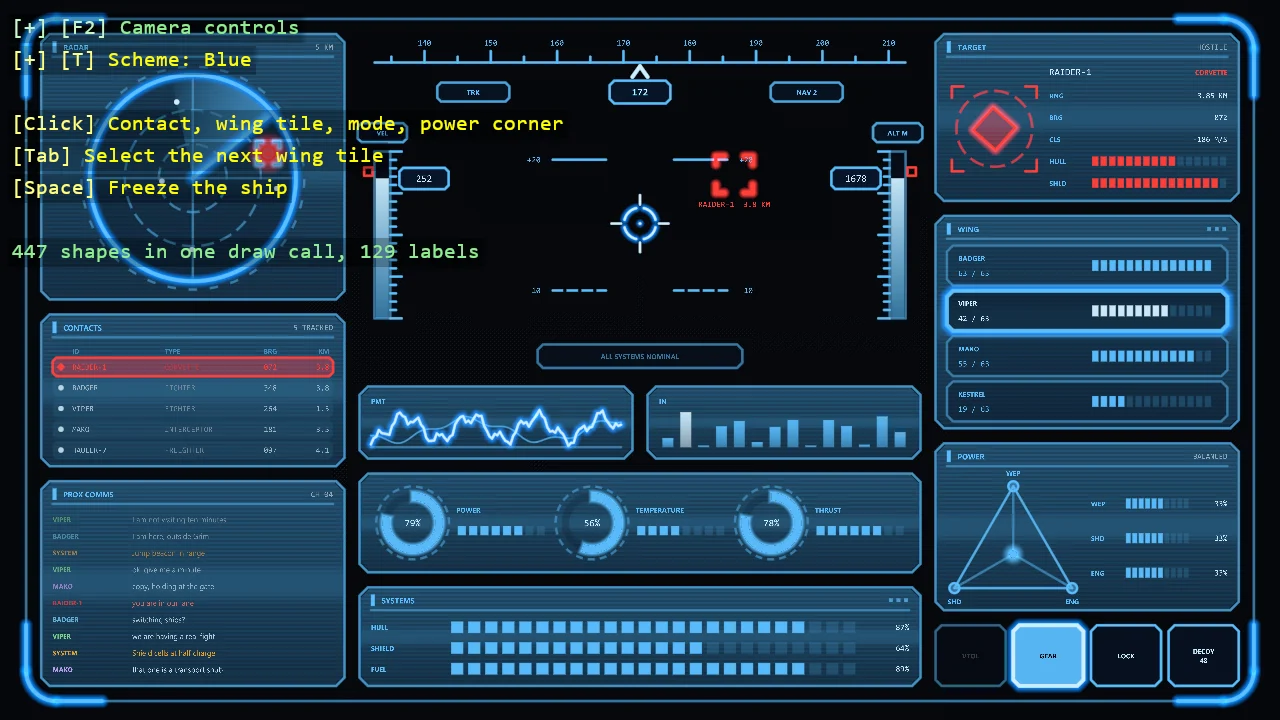
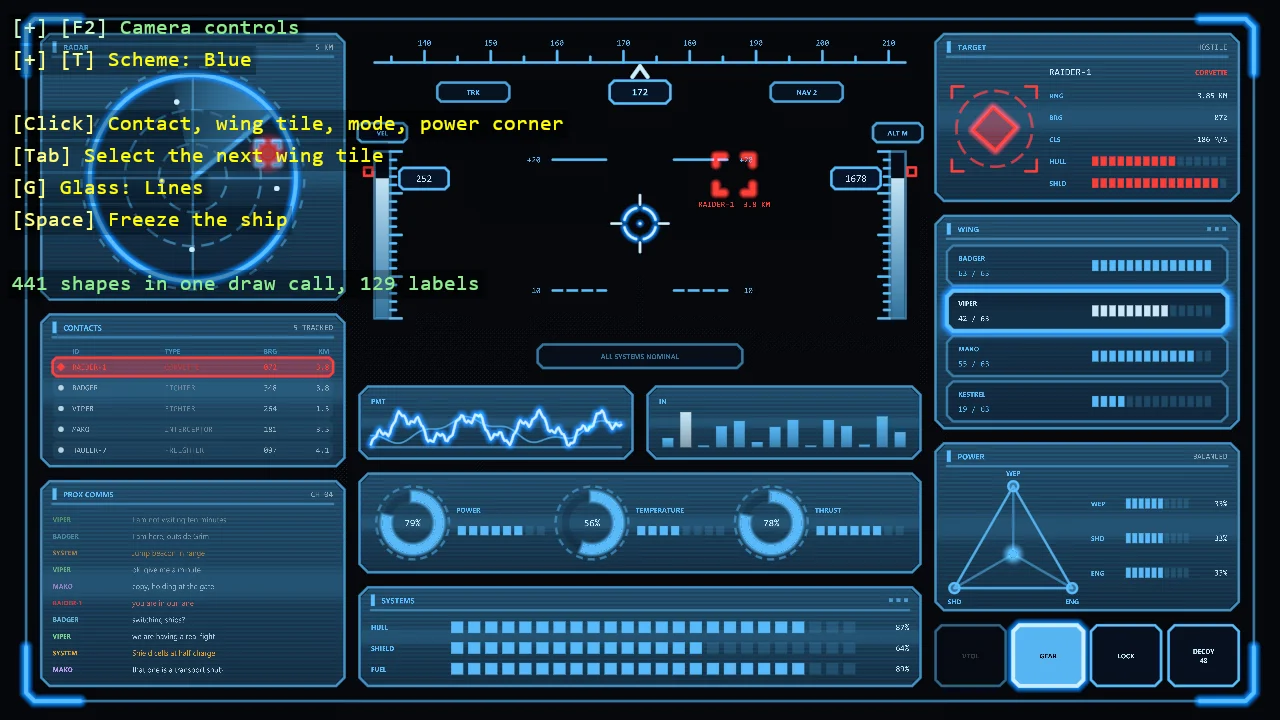
feat(examples): add configurable ship HUD glass
- Add a second glass pattern driven from C# and G
- Support line and square glass patterns through shader Settings
- Switch the frame to cut corners and tune trace/radar visuals
- Update the example docs and release notes

diff --git a/examples/code-only/E03_2D_HUD/Program.cs b/examples/code-only/E03_2D_HUD/Program.cs
@@ -22,9 +22,11 @@ using Stride.Rendering.Materials.ComputeColors;
 //   *Widget.cs      one widget each
 //
 // T opens the colour schemes and 1 to 9 and 0 pick one. Click a contact, a wing tile, a mode button
-// or a corner of the power triangle. TAB selects the next wing tile and SPACE freezes the ship.
+// or a corner of the power triangle. TAB selects the next wing tile, G changes the panels' glass
+// and SPACE freezes the ship.
 //
-// "--scheme 0" starts in a scheme by its key. "--pointer 0.5,0.5" holds the pointer at a position,
+// "--scheme 0" starts in a scheme by its key and "--glass squares" in a glass pattern.
+// "--pointer 0.5,0.5" holds the pointer at a position,
 // from 0,0 top left to 1,1 bottom right, and clicks there once: what a screenshot needs to show a
 // hover.
 
@@ -32,11 +34,12 @@ const float ViewHeight = 19f;
 
 var ship = new ShipState();
 var hud = new Hud(ship);
-var clock = new ComputeFloat4();
+var glassSettings = new ComputeFloat4();
 var paused = false;
 var time = 0f;
 var shapeCount = 0;
 var themeIndex = SchemeFromArguments(args);
+var glassPattern = GlassFromArguments(args);
 var heldPointer = PointerFromArguments(args);
 var heldPointerClicked = false;
 
@@ -63,7 +66,7 @@ void Start(Scene scene)
 
     // One batch for everything. Its fill source is the panels' glass, a shader class of the
     // example's own, which only the shapes drawn as textured sample.
-    var glass = new ComputeShaderClassColor { MixinReference = "HudGlass", CompositionNodes = { ["Clock"] = clock } };
+    var glass = new ComputeShaderClassColor { MixinReference = "HudGlass", CompositionNodes = { ["Settings"] = glassSettings } };
     var shapes = game.AddShapeBatch(fill: glass);
 
     canvas = new HudCanvas(game, scene, shapes, HudTheme.All[themeIndex]);
@@ -94,6 +97,7 @@ void Update(Scene scene, GameTime gameTime)
 
     if (game.Input.IsKeyPressed(Keys.Space)) paused = !paused;
     if (game.Input.IsKeyPressed(Keys.Tab)) ship.SelectedWing = (ship.SelectedWing + 1) % ship.Wing.Length;
+    if (game.Input.IsKeyPressed(Keys.G)) glassPattern = glassPattern == GlassPattern.Lines ? GlassPattern.Squares : GlassPattern.Lines;
 
     if (!paused)
     {
@@ -104,7 +108,9 @@ void Update(Scene scene, GameTime gameTime)
     // The power setting follows the pointer, so it moves while the ship is frozen too
     ship.Power.Advance(elapsed);
 
-    clock.Value = new Vector4(time, 0f, 0f, 0f);
+    // What the glass shader reads: x is the clock, y the pattern
+    glassSettings.Value = new Vector4(time, (float)glassPattern, 0f, 0f);
+    canvas.Glass = glassPattern;
 
     var pointer = heldPointer ?? game.Input.MousePosition;
     var clicked = heldPointer is null ? game.Input.IsMouseButtonPressed(MouseButton.Left) : !heldPointerClicked && canvas.Shapes.CanPick;
@@ -133,6 +139,7 @@ IReadOnlyList<TextElement> OverlayLines()
     [
         new("Click", "Contact, wing tile, mode, power corner", Color.Yellow),
         new("Tab", "Select the next wing tile", Color.Yellow),
+        new("G", $"Glass: {glassPattern}", Color.Yellow),
         new("Space", paused ? "Resume" : "Freeze the ship", Color.Yellow),
         new(string.Empty),
         new($"{shapeCount} shapes in one draw call, {canvas?.LabelCount ?? 0} labels", Color.LightGreen),
@@ -151,6 +158,13 @@ static int SchemeFromArguments(string[] args)
     if (at < 0 || at + 1 >= args.Length || !int.TryParse(args[at + 1], out var key) || key is < 0 or > 9) return 0;
 
     return key == 0 ? 9 : key - 1;
+}
+
+static GlassPattern GlassFromArguments(string[] args)
+{
+    var at = Array.IndexOf(args, "--glass");
+
+    return at >= 0 && at + 1 < args.Length && Enum.TryParse<GlassPattern>(args[at + 1], ignoreCase: true, out var pattern) ? pattern : GlassPattern.Lines;
 }
 
 static Vector2? PointerFromArguments(string[] args)
@@ -181,22 +195,22 @@ order: 76
 description:
   en: |-
     A cockpit HUD composed from the toolkit's shapes and world text, with one widget per file. A
-    rounded frame holds three columns of panels: a radar, a contacts table and a comms log on the
+    frame with cut corners holds three columns of panels: a radar, a contacts table and a comms log on the
     left, the heading tape, the sight with its pitch ladder, the speed and altitude tapes, two
     traces, a spectrum, ring gauges and the systems bars in the middle, and the target, the wing,
     the power triangle and the mode buttons on the right. Panels are interactive: click a contact
     to target it, a wing tile to select it, a mode button to switch it, a corner of the triangle to
-    move power there. The panels' glass is a shader fill. Ten colour schemes switch live, nine in
-    one colour and one that colours by function. Every shape is in one draw call and the ship flies
+    move power there. The panels' glass is a shader fill with two patterns, lines and squares. Ten
+    colour schemes switch live, nine in one colour and one that colours by function. Every shape is in one draw call and the ship flies
     itself.
   cs: |-
-    HUD kokpitu složený z tvarů a textu ve světě, jeden widget v jednom souboru. Zaoblený rám drží
+    HUD kokpitu složený z tvarů a textu ve světě, jeden widget v jednom souboru. Rám se zkosenými rohy drží
     tři sloupce panelů: vlevo radar, tabulku kontaktů a komunikační log, uprostřed pásku kurzu,
     zaměřovač se žebříkem sklonu, pásky rychlosti a výšky, dvě křivky signálu, spektrum, kruhové
     ukazatele a pruhy systémů, vpravo cíl, letku, trojúhelník rozdělení energie a tlačítka režimů.
     Panely jsou interaktivní: kliknutím na kontakt se z něj stane cíl, kliknutím na dlaždici letky
     se vybere, tlačítko režimu se přepne a roh trojúhelníku přesune energii. Sklo panelů je výplň
-    shaderem. Deset barevných schémat lze přepínat za běhu, devět jednobarevných a jedno, které
+    shaderem se dvěma vzory, linkami a čtverci. Deset barevných schémat lze přepínat za běhu, devět jednobarevných a jedno, které
     barví podle funkce. Všechny tvary jsou v jednom volání a loď letí sama.
 concepts:
   - Splitting a HUD into one widget per file, each drawing inside the rectangle it is given
@@ -205,6 +219,7 @@ concepts:
   - Hover and click through ShapeBatch picking - tag a shape, ask the batch what is under the pointer
   - Invisible tagged discs as hit areas for small things
   - A shader class as the batch's fill source, sampled only by the shapes drawn as textured
+  - One shader with two patterns, chosen by a value composed in from C#
   - A theme that answers roles, so one scheme can colour by function
   - Values that ease towards their target for hover, selection and a fade-in on a scheme change
   - A trace sampled as a function of time, so it scrolls every frame

diff --git a/examples/code-only/E03_2D_HUD/TraceWidget.cs b/examples/code-only/E03_2D_HUD/TraceWidget.cs
@@ -3,14 +3,19 @@ using Stride.Core.Mathematics;
 namespace E03_2D_HUD;
 
 /// <summary>
-/// The last few seconds of two signals, each one stroke. Every point is the signal at the moment
-/// its x stands for, so the trace scrolls a little every frame and never steps.
+/// The last few seconds of two signals, each one stroke. The samples are taken at fixed moments of
+/// the signal, not at fixed places on the screen, so the stroke keeps its shape and only slides:
+/// it scrolls a little every frame, never steps and never shimmers at its peaks.
 /// </summary>
 public sealed class TraceWidget : HudWidget
 {
     private const string Name = "trace";
-    private const int Points = 96;
     private const float SecondsShown = 6f;
+    private const float SecondsPerSample = 1f / 24f;
+    private const float Margin = 0.001f;
+
+    // The samples inside the window, and one point on each edge
+    private const int MaxPoints = (int)(SecondsShown / SecondsPerSample) + 3;
 
     public override void Draw(HudCanvas canvas, HudRect bounds)
     {
@@ -24,28 +29,46 @@ public sealed class TraceWidget : HudWidget
         canvas.Style(HudCanvas.Thin, 0f);
         canvas.Line(new Vector2(plot.Left, plot.Bottom), new Vector2(plot.Right, plot.Bottom), HudCanvas.Thin, theme.Dim(HudRole.Frame));
 
-        Span<Vector2> points = stackalloc Vector2[Points];
+        Span<Vector2> points = stackalloc Vector2[MaxPoints];
 
         // The slower signal behind: thinner and dimmer
-        Sample(points, plot, canvas.Time, ShipState.Reference);
+        var count = Sample(points, plot, canvas.Time, ShipState.Reference);
 
         canvas.Style(1f, 0f);
-        canvas.Shapes.DrawPixelPolyline(points, 1f, theme.For(HudRole.Commanded).WithAlpha(0.6f));
+        canvas.Shapes.DrawPixelPolyline(points[..count], 1f, theme.For(HudRole.Commanded).WithAlpha(0.6f));
 
         // The signal in front, glowing like a phosphor trace
-        Sample(points, plot, canvas.Time, ShipState.Signal);
+        count = Sample(points, plot, canvas.Time, ShipState.Signal);
 
         canvas.Style(HudCanvas.Thin, 0f, glow: 4f, glowColour: theme.Glow, additive: true);
-        canvas.Shapes.DrawPixelPolyline(points, HudCanvas.Thin, theme.Text);
+        canvas.Shapes.DrawPixelPolyline(points[..count], HudCanvas.Thin, theme.Text);
     }
 
-    private static void Sample(Span<Vector2> points, HudRect plot, float now, Func<float, float> signal)
+    /// <summary>
+    /// Fills the points of a stroke: one on the left edge, one for every sample moment inside the
+    /// window, one on the right edge.
+    /// </summary>
+    /// <returns>How many points it filled.</returns>
+    private static int Sample(Span<Vector2> points, HudRect plot, float now, Func<float, float> signal)
     {
-        for (var i = 0; i < points.Length; i++)
-        {
-            var along = i / (points.Length - 1f);
+        var start = now - SecondsShown;
+        var count = 0;
 
-            points[i] = plot.At(along, signal(now - (1f - along) * SecondsShown));
+        points[count++] = plot.At(0f, signal(start));
+
+        // Sample moments are multiples of the step, so the same moments are sampled every frame
+        for (var sample = (int)MathF.Floor(start / SecondsPerSample) + 1; sample * SecondsPerSample < now && count < points.Length - 1; sample++)
+        {
+            var moment = sample * SecondsPerSample;
+
+            // A sample on an edge would double the edge's own point
+            if (moment - start < Margin || now - moment < Margin) continue;
+
+            points[count++] = plot.At((moment - start) / SecondsShown, signal(moment));
         }
+
+        points[count++] = plot.At(1f, signal(now));
+
+        return count;
     }
 }

diff --git a/examples/code-only/E03_2D_HUD/Hud.cs b/examples/code-only/E03_2D_HUD/Hud.cs
@@ -3,7 +3,7 @@ using Stride.Core.Mathematics;
 namespace E03_2D_HUD;
 
 /// <summary>
-/// The layout: a rounded frame and three columns of widgets inside it, stacked top down. One
+/// The layout: a frame with cut corners and three columns of widgets inside it, stacked top down. One
 /// padding separates the frame from the columns, the columns from each other and the widgets in a
 /// column. A widget draws inside the rectangle it is given, so moving one is moving a line here.
 /// </summary>
@@ -13,7 +13,8 @@ public sealed class Hud
     public const float Height = 18f;
     public const float Padding = 0.4f;
 
-    private const float Corner = 0.8f;
+    // The frame's corners are cut as much as a panel's
+    private const float Cut = HudPanel.Cut;
     private const float SideColumn = 8f;
     private const float Tape = 2.6f;
 
@@ -58,8 +59,8 @@ public sealed class Hud
     }
 
     /// <summary>
-    /// The edge of the canopy glass: a rounded outline, with each corner drawn again brighter as an
-    /// arc and two short arms.
+    /// The edge of the canopy glass: an outline with its corners cut at 45 degrees, like the
+    /// panels, and each corner drawn again brighter as one stroke with two short arms.
     /// </summary>
     private static void DrawFrame(HudCanvas canvas, HudRect frame)
     {
@@ -67,24 +68,33 @@ public sealed class Hud
 
         var theme = canvas.Theme;
         var accent = theme.For(HudRole.Frame);
+        var half = frame.Size / 2f;
+
+        ReadOnlySpan<Vector2> outline =
+        [
+            new(-half.X + Cut, -half.Y), new(half.X - Cut, -half.Y), new(half.X, -half.Y + Cut), new(half.X, half.Y - Cut),
+            new(half.X - Cut, half.Y), new(-half.X + Cut, half.Y), new(-half.X, half.Y - Cut), new(-half.X, -half.Y + Cut),
+        ];
 
         canvas.Style(HudCanvas.Thin, 0f);
-        canvas.Shapes.DrawRectangle(new Vector3(frame.Center, 0f), Vector3.UnitX, Vector3.UnitY, frame.Size, theme.Dim(HudRole.Frame), Corner);
+        canvas.Shapes.DrawPixelPolyline(outline, new Vector3(frame.Center, 0f), Vector3.UnitX, Vector3.UnitY, HudCanvas.Thin, theme.Dim(HudRole.Frame), closed: true);
 
         canvas.Style(HudCanvas.Thick, 0f, glow: 4f, glowColour: theme.Glow, additive: true);
 
-        // Counter-clockwise from the top right, a quarter turn each
-        ReadOnlySpan<Vector2> sides = [new(1f, 1f), new(-1f, 1f), new(-1f, -1f), new(1f, -1f)];
-
-        for (var i = 0; i < sides.Length; i++)
+        foreach (var side in (ReadOnlySpan<Vector2>)[new(1f, 1f), new(-1f, 1f), new(-1f, -1f), new(1f, -1f)])
         {
-            var side = sides[i];
-            var corner = frame.Center + side * (frame.Size / 2f);
-            var center = corner - side * Corner;
+            var corner = frame.Center + side * half;
 
-            canvas.Shapes.DrawArc(center, Corner, i * MathF.PI / 2f, MathF.PI / 2f, accent);
-            canvas.Line(new Vector2(center.X, corner.Y), new Vector2(center.X - side.X * Arm, corner.Y), HudCanvas.Thick, accent);
-            canvas.Line(new Vector2(corner.X, center.Y), new Vector2(corner.X, center.Y - side.Y * Arm), HudCanvas.Thick, accent);
+            // Along the top or bottom edge, down the cut, along the left or right edge
+            ReadOnlySpan<Vector2> stroke =
+            [
+                corner - new Vector2(side.X * (Cut + Arm), 0f),
+                corner - new Vector2(side.X * Cut, 0f),
+                corner - new Vector2(0f, side.Y * Cut),
+                corner - new Vector2(0f, side.Y * (Cut + Arm)),
+            ];
+
+            canvas.Shapes.DrawPixelPolyline(stroke, HudCanvas.Thick, accent);
         }
     }
 }

diff --git a/examples/code-only/E03_2D_HUD/HudPanel.cs b/examples/code-only/E03_2D_HUD/HudPanel.cs
@@ -2,6 +2,16 @@ using Stride.Core.Mathematics;
 
 namespace E03_2D_HUD;
 
+/// <summary>The pattern of a panel's glass. The values are what the shader reads.</summary>
+public enum GlassPattern
+{
+    /// <summary>A dark scanline every four pixels.</summary>
+    Lines,
+
+    /// <summary>Five-pixel squares, each at one of five opacities.</summary>
+    Squares,
+}
+
 /// <summary>
 /// The frame every panel shares: a chamfered outline over the ground colour, the glass shader over
 /// that, and an optional header with a title. The frame brightens while the pointer is over the
@@ -37,8 +47,9 @@ public static class HudPanel
         canvas.ChamferedPanel(bounds.Center, bounds.Size, Cut, accent.WithAlpha(0.55f + 0.45f * hover));
         canvas.Shapes.Tag = null;
 
-        // The glass over it: the batch's fill source, tinted by the accent
-        canvas.Style(0f, 0.16f, accent, textured: true);
+        // The glass over it: the batch's fill source, tinted by the accent. Squares cover less of
+        // the panel than lines, so they are drawn stronger.
+        canvas.Style(0f, canvas.Glass == GlassPattern.Squares ? 0.3f : 0.16f, accent, textured: true);
         canvas.ChamferedPanel(bounds.Center, bounds.Size - new Vector2(0.08f), Cut, accent);
 
         if (title is null) return bounds.Inset(Margin);

diff --git a/examples/code-only/E03_2D_HUD/RadarWidget.cs b/examples/code-only/E03_2D_HUD/RadarWidget.cs
@@ -41,7 +41,7 @@ public sealed class RadarWidget(ShipState ship) : HudWidget
         canvas.Style(0f, 1f, colour.WithAlpha(0.45f), gradientTo: colour.WithAlpha(0f), gradientAlong: new Vector2(-MathF.Sin(middle), MathF.Cos(middle)));
         canvas.Shapes.DrawSector(center, radius - 0.03f, sweep, Trail, colour);
 
-        canvas.Style(HudCanvas.Thin, 0f, glow: 6f, glowColour: glow, additive: true);
+        canvas.Style(HudCanvas.Thin, 0f, glow: 1.5f, glowColour: glow, additive: true);
         canvas.Line(center, center + Direction(sweep) * radius, HudCanvas.Thick, colour);
 
         for (var i = 0; i < ship.Contacts.Length; i++)

diff --git a/examples/code-only/E03_2D_HUD/HudCanvas.cs b/examples/code-only/E03_2D_HUD/HudCanvas.cs
@@ -59,6 +59,9 @@ public sealed class HudCanvas
 
     public HudTheme Theme { get; private set; }
 
+    /// <summary>The pattern of the panels' glass.</summary>
+    public GlassPattern Glass { get; set; }
+
     /// <summary>The ship's clock in seconds. It stops when the ship is frozen.</summary>
     public float Time { get; private set; }
 

diff --git a/docs/manual/code-only/examples/hud.md b/docs/manual/code-only/examples/hud.md
@@ -6,13 +6,13 @@ slug: hud
 # Ship HUD
 
 A cockpit HUD composed from the toolkit's shapes and world text, with one widget per file. A
-rounded frame holds three columns of panels: a radar, a contacts table and a comms log on the
+frame with cut corners holds three columns of panels: a radar, a contacts table and a comms log on the
 left, the heading tape, the sight with its pitch ladder, the speed and altitude tapes, two
 traces, a spectrum, ring gauges and the systems bars in the middle, and the target, the wing,
 the power triangle and the mode buttons on the right. Panels are interactive: click a contact
 to target it, a wing tile to select it, a mode button to switch it, a corner of the triangle to
-move power there. The panels' glass is a shader fill. Ten colour schemes switch live, nine in
-one colour and one that colours by function. Every shape is in one draw call and the ship flies
+move power there. The panels' glass is a shader fill with two patterns, lines and squares. Ten
+colour schemes switch live, nine in one colour and one that colours by function. Every shape is in one draw call and the ship flies
 itself.
 
 The `Program.cs` file shows how to:
@@ -23,6 +23,7 @@ The `Program.cs` file shows how to:
 - Hover and click through ShapeBatch picking - tag a shape, ask the batch what is under the pointer
 - Invisible tagged discs as hit areas for small things
 - A shader class as the batch's fill source, sampled only by the shapes drawn as textured
+- One shader with two patterns, chosen by a value composed in from C#
 - A theme that answers roles, so one scheme can colour by function
 - Values that ease towards their target for hover, selection and a fade-in on a scheme change
 - A trace sampled as a function of time, so it scrolls every frame
@@ -32,4 +33,4 @@ The `Program.cs` file shows how to:
 
 View on [GitHub](https://github.com/stride3d/stride-community-toolkit/tree/main/examples/code-only/E03_2D_HUD).
 
-[!code-csharp[](../../../../examples/code-only/E03_2D_HUD/Program.cs?start=1&end=169)]
+[!code-csharp[](../../../../examples/code-only/E03_2D_HUD/Program.cs?start=1&end=183)]

diff --git a/docs/release-notes/index.md b/docs/release-notes/index.md
@@ -30,7 +30,7 @@ The Stride Community Toolkit is developed with rapid iteration in mind. It moves
 
 ### 🎓 Examples
 
-- `E03_2D_HUD`: reworked. One widget per file, three columns of panels in a rounded frame, ten colour schemes on keys 1 to 9 and 0, and new contacts, target and power panels. Contacts, wing tiles, mode buttons and the power triangle respond to clicks through `ShapeBatch` picking. `--scheme N` starts in a scheme.
+- `E03_2D_HUD`: reworked. One widget per file, three columns of panels in a frame, ten colour schemes on keys 1 to 9 and 0, and new contacts, target and power panels. Contacts, wing tiles, mode buttons and the power triangle respond to clicks through `ShapeBatch` picking. The panel background is a shader fill with two patterns, lines and squares, on key G. `--scheme N` starts in a scheme.
 - `E02_3D_Material_Gallery`: the hair and subsurface scattering stations are always on and require a Stride build newer than 4.4.0-beta8. The `--engine-fix` switch is removed.
 - `E11_3D_ShapeBatch_Gallery`: new station **Shader fill**, a fill computed by a shader class instead of a texture. The gallery picture has mipmaps.
 - `E09_3D_Particles_Gallery`: new station **Shader node**, particles drawn by a shader class instead of a texture. `--station N --variation M` starts at a variation.
